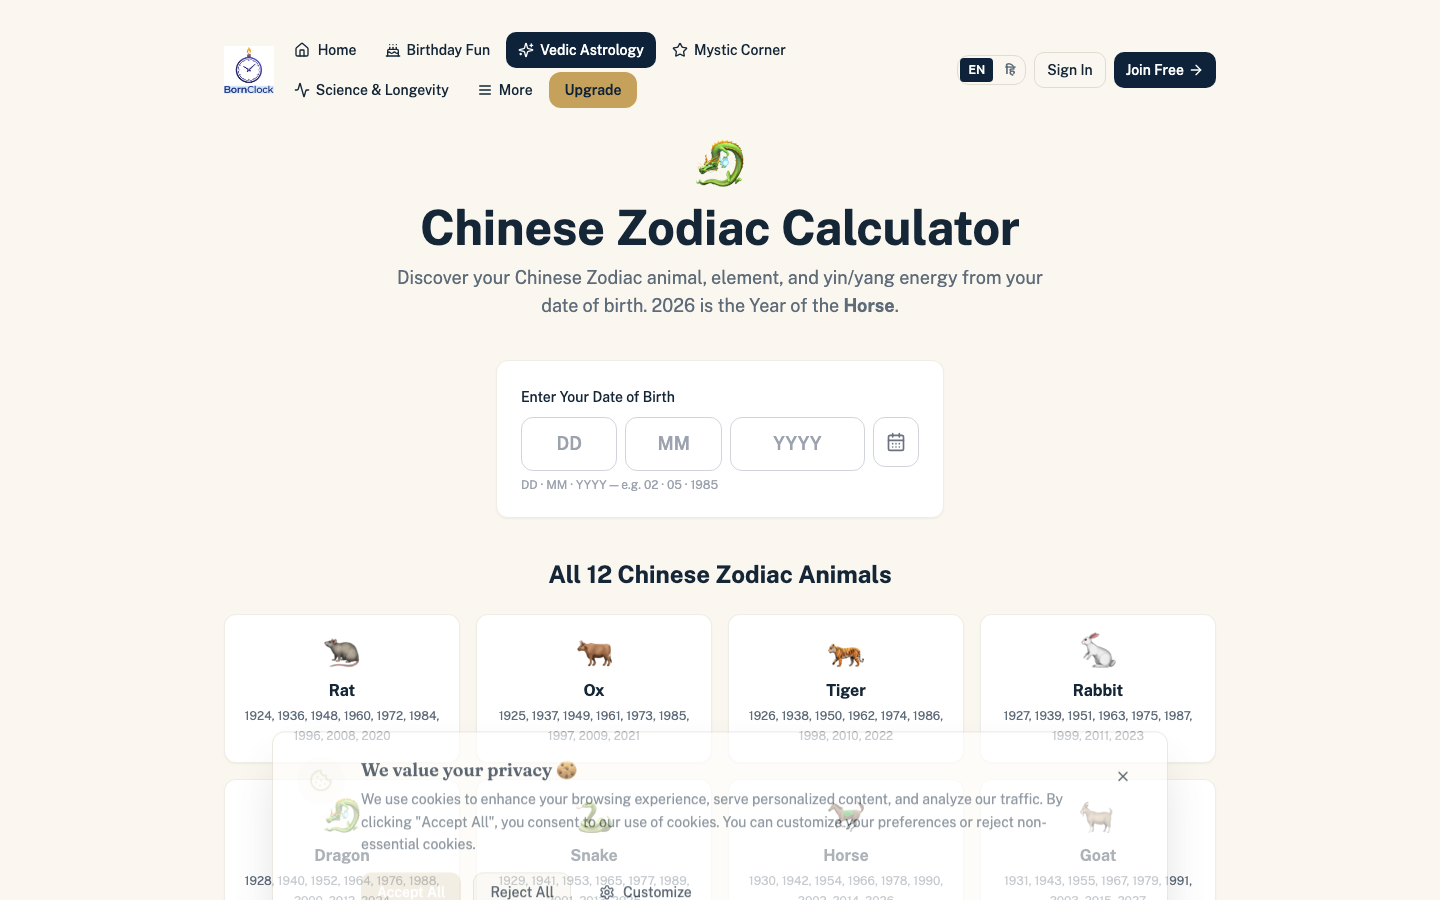
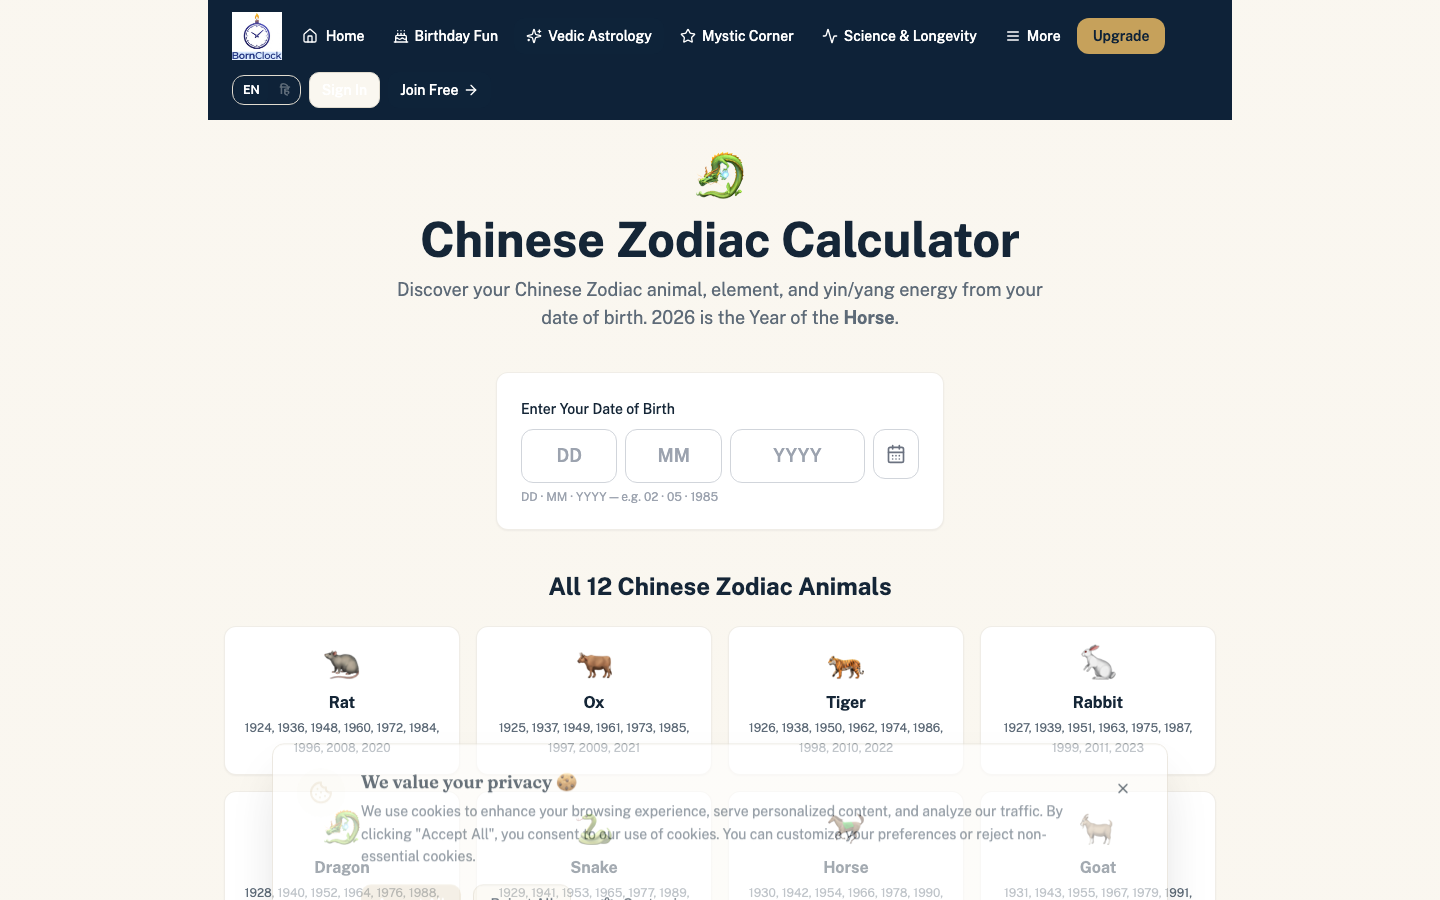
Part AO/Step 3: navy header on remaining 40 pages (mb-8/mb-6 header variant) — every page with Navigation now has the navy bar or paj site-header; zero stragglers

diff --git a/src/pages/hi/RashifalPage.tsx b/src/pages/hi/RashifalPage.tsx
@@ -14,7 +14,7 @@ export default function RashifalPage() {
       <div data-testid="rashifal-page" className="min-h-screen bg-gradient-cosmic">
         <SEO title="राशिफल — आज का राशिफल | BornClock" description="अपनी राशि चुनें और आज का राशिफल पढ़ें।" canonicalUrl="/hi/rashifal" />
         <div className="container mx-auto px-4 py-8 max-w-2xl">
-          <header className="flex justify-between items-center mb-8"><Navigation /><AuthNav /></header>
+          <header className="flex justify-between items-center gap-3 flex-wrap -mx-4 -mt-8 mb-8 px-4 md:px-6 py-3 bg-[#0E2238] text-white sticky top-0 z-50"><Navigation /><AuthNav /></header>
           <h1 className="text-2xl font-bold text-foreground mb-4">राशिफल</h1>
           <p className="text-muted-foreground mb-4">कृपया एक मान्य राशि चुनें:</p>
           <div className="flex flex-wrap gap-2">
@@ -38,7 +38,7 @@ export default function RashifalPage() {
         canonicalUrl={`/hi/rashifal/${entry.slug}`}
       />
       <div className="container mx-auto px-4 py-8 max-w-2xl">
-        <header className="flex justify-between items-center mb-8"><Navigation /><AuthNav /></header>
+        <header className="flex justify-between items-center gap-3 flex-wrap -mx-4 -mt-8 mb-8 px-4 md:px-6 py-3 bg-[#0E2238] text-white sticky top-0 z-50"><Navigation /><AuthNav /></header>
 
         <nav className="text-sm text-muted-foreground mb-4 flex gap-2 items-center">
           <Link to="/hi/rashifal" className="hover:text-foreground">राशिफल</Link>

diff --git a/src/pages/DatePersonalityPage.tsx b/src/pages/DatePersonalityPage.tsx
@@ -24,7 +24,7 @@ export default function DatePersonalityPage() {
       <div data-testid="personality-page" className="min-h-screen bg-gradient-cosmic">
         <SEO title="Birthday Personality | BornClock" description="Discover the personality of any birth date." canonicalUrl="/born-in" />
         <div className="container mx-auto px-4 py-8 max-w-2xl">
-          <header className="flex justify-between items-center mb-8"><Navigation /><AuthNav /></header>
+          <header className="flex justify-between items-center gap-3 flex-wrap -mx-4 -mt-8 mb-8 px-4 md:px-6 py-3 bg-[#0E2238] text-white sticky top-0 z-50"><Navigation /><AuthNav /></header>
           <h1 className="text-2xl font-bold text-foreground">Birthday Personality</h1>
           <p className="text-muted-foreground mt-2">Pick a valid date to see its personality profile.</p>
         </div>
@@ -50,7 +50,7 @@ export default function DatePersonalityPage() {
         canonicalUrl={`/born-on/${month}/${dayNum}/personality`}
       />
       <div className="container mx-auto px-4 py-8 max-w-2xl">
-        <header className="flex justify-between items-center mb-8"><Navigation /><AuthNav /></header>
+        <header className="flex justify-between items-center gap-3 flex-wrap -mx-4 -mt-8 mb-8 px-4 md:px-6 py-3 bg-[#0E2238] text-white sticky top-0 z-50"><Navigation /><AuthNav /></header>
 
         <h1 className="font-heading text-3xl md:text-4xl font-bold text-foreground mb-2">
           Born on {monthName} {dayNum}: Personality

diff --git a/src/pages/BornOnDayGlobal.tsx b/src/pages/BornOnDayGlobal.tsx
@@ -90,7 +90,7 @@ export default function BornOnDayGlobal() {
       <div className="min-h-screen bg-gradient-cosmic" data-testid="born-on-global-page">
         <SEO title="Date not found · BornClock" noindex />
         <div className="container mx-auto px-4 py-8 max-w-4xl">
-          <header className="flex justify-between items-center mb-8">
+          <header className="flex justify-between items-center gap-3 flex-wrap -mx-4 -mt-8 mb-8 px-4 md:px-6 py-3 bg-[#0E2238] text-white sticky top-0 z-50">
             <Navigation />
             <AuthNav />
           </header>
@@ -145,7 +145,7 @@ export default function BornOnDayGlobal() {
       <JsonLd data={qaJsonLd} />
 
       <div className="container mx-auto px-4 py-8 max-w-4xl">
-        <header className="flex justify-between items-center mb-8">
+        <header className="flex justify-between items-center gap-3 flex-wrap -mx-4 -mt-8 mb-8 px-4 md:px-6 py-3 bg-[#0E2238] text-white sticky top-0 z-50">
           <Navigation />
           <AuthNav />
         </header>

diff --git a/src/pages/FamilyDashboard.tsx b/src/pages/FamilyDashboard.tsx
@@ -271,7 +271,7 @@ function FamilyDashboardInner() {
       <div className="min-h-screen bg-background">
         <SEO title="Family Longevity Dashboard | BornClock Premium" description="Compare longevity forecasts for your family." noindex={true} />
         <div className="container mx-auto px-4 py-8">
-          <header className="flex justify-between items-center mb-8">
+          <header className="flex justify-between items-center gap-3 flex-wrap -mx-4 -mt-8 mb-8 px-4 md:px-6 py-3 bg-[#0E2238] text-white sticky top-0 z-50">
             <Navigation />
             <AuthNav />
           </header>
@@ -313,7 +313,7 @@ function FamilyDashboardInner() {
       />
 
       <div className="container mx-auto px-4 py-8 max-w-5xl">
-        <header className="flex justify-between items-center mb-8">
+        <header className="flex justify-between items-center gap-3 flex-wrap -mx-4 -mt-8 mb-8 px-4 md:px-6 py-3 bg-[#0E2238] text-white sticky top-0 z-50">
           <Navigation />
           <AuthNav />
         </header>

diff --git a/src/pages/articles/KundaliCompatArticle.tsx b/src/pages/articles/KundaliCompatArticle.tsx
@@ -22,7 +22,7 @@ export default function KundaliCompatArticle() {
       />
       <FAQSchema items={FAQ} />
       <div className="container mx-auto px-4 py-8 max-w-3xl">
-        <header className="flex justify-between items-center mb-8"><Navigation /><AuthNav /></header>
+        <header className="flex justify-between items-center gap-3 flex-wrap -mx-4 -mt-8 mb-8 px-4 md:px-6 py-3 bg-[#0E2238] text-white sticky top-0 z-50"><Navigation /><AuthNav /></header>
 
         <article className="prose prose-slate max-w-none text-foreground">
           <h1 className="font-heading text-3xl md:text-4xl font-bold mb-4">Kundali Matching: The Complete Guide to Ashtakoota (Guna Milan)</h1>

diff --git a/src/pages/RemindersPage.tsx b/src/pages/RemindersPage.tsx
@@ -37,7 +37,7 @@ export default function RemindersPage() {
         ogType="website"
       />
       <div className="container mx-auto px-4 py-8 max-w-2xl">
-        <header className="flex justify-between items-center mb-8"><Navigation /><AuthNav /></header>
+        <header className="flex justify-between items-center gap-3 flex-wrap -mx-4 -mt-8 mb-8 px-4 md:px-6 py-3 bg-[#0E2238] text-white sticky top-0 z-50"><Navigation /><AuthNav /></header>
 
         <h1 className="font-heading text-3xl md:text-4xl font-bold text-foreground mb-2">Birthday Reminders</h1>
         <p className="text-muted-foreground mb-6">Save birthdays and we'll remind you before the big day.</p>

diff --git a/src/pages/DiwaliGiftPage.tsx b/src/pages/DiwaliGiftPage.tsx
@@ -22,7 +22,7 @@ export default function DiwaliGiftPage() {
         ogType="website"
       />
       <div className="container mx-auto px-4 py-8 max-w-2xl">
-        <header className="flex justify-between items-center mb-8"><Navigation /><AuthNav /></header>
+        <header className="flex justify-between items-center gap-3 flex-wrap -mx-4 -mt-8 mb-8 px-4 md:px-6 py-3 bg-[#0E2238] text-white sticky top-0 z-50"><Navigation /><AuthNav /></header>
 
         <div className="text-center mb-8">
           <div className="text-4xl mb-2">🪔</div>

diff --git a/src/pages/BirthdayResults.tsx b/src/pages/BirthdayResults.tsx
@@ -242,7 +242,7 @@ const BirthdayResults = () => {
         description={`Discover your exact age, celebrity birthday twins, zodiac sign, and more personalized birthday insights.`}
       />
       <div className="container mx-auto px-4 py-8">
-        <header className="flex justify-between items-center mb-8">
+        <header className="flex justify-between items-center gap-3 flex-wrap -mx-4 -mt-8 mb-8 px-4 md:px-6 py-3 bg-[#0E2238] text-white sticky top-0 z-50">
           <Navigation />
           <AuthNav />
         </header>

diff --git a/src/pages/BornOnDayIndia.tsx b/src/pages/BornOnDayIndia.tsx
@@ -170,7 +170,7 @@ export default function BornOnDayIndia() {
       <script type="application/ld+json" dangerouslySetInnerHTML={{ __html: JSON.stringify(qaPageJsonLd) }} />
 
       <div className="container mx-auto px-4 py-8 max-w-4xl">
-        <header className="flex justify-between items-center mb-8">
+        <header className="flex justify-between items-center gap-3 flex-wrap -mx-4 -mt-8 mb-8 px-4 md:px-6 py-3 bg-[#0E2238] text-white sticky top-0 z-50">
           <Navigation />
           <AuthNav />
         </header>

diff --git a/src/pages/Contact.tsx b/src/pages/Contact.tsx
@@ -73,7 +73,7 @@ export default function Contact() {
     <div className="min-h-screen bg-gradient-cosmic">
       <div className="container mx-auto px-4 py-8 max-w-4xl">
         {/* Header */}
-        <header className="flex justify-between items-center mb-8">
+        <header className="flex justify-between items-center gap-3 flex-wrap -mx-4 -mt-8 mb-8 px-4 md:px-6 py-3 bg-[#0E2238] text-white sticky top-0 z-50">
           <Navigation />
           <AuthNav />
         </header>

diff --git a/src/pages/Terms.tsx b/src/pages/Terms.tsx
@@ -20,7 +20,7 @@ export default function Terms() {
     <div className="min-h-screen bg-gradient-cosmic">
       <div className="container mx-auto px-4 py-8 max-w-4xl">
         {/* Header */}
-        <header className="flex justify-between items-center mb-8">
+        <header className="flex justify-between items-center gap-3 flex-wrap -mx-4 -mt-8 mb-8 px-4 md:px-6 py-3 bg-[#0E2238] text-white sticky top-0 z-50">
           <Navigation />
           <AuthNav />
         </header>

diff --git a/src/pages/ChineseZodiacSign.tsx b/src/pages/ChineseZodiacSign.tsx
@@ -67,7 +67,7 @@ export default function ChineseZodiacSign() {
         ogImage="https://bornclock.com/og/zodiac.png"
       />
       <div className="container mx-auto px-4 py-8">
-        <header className="flex justify-between items-center mb-8">
+        <header className="flex justify-between items-center gap-3 flex-wrap -mx-4 -mt-8 mb-8 px-4 md:px-6 py-3 bg-[#0E2238] text-white sticky top-0 z-50">
           <Navigation />
           <AuthNav />
         </header>
